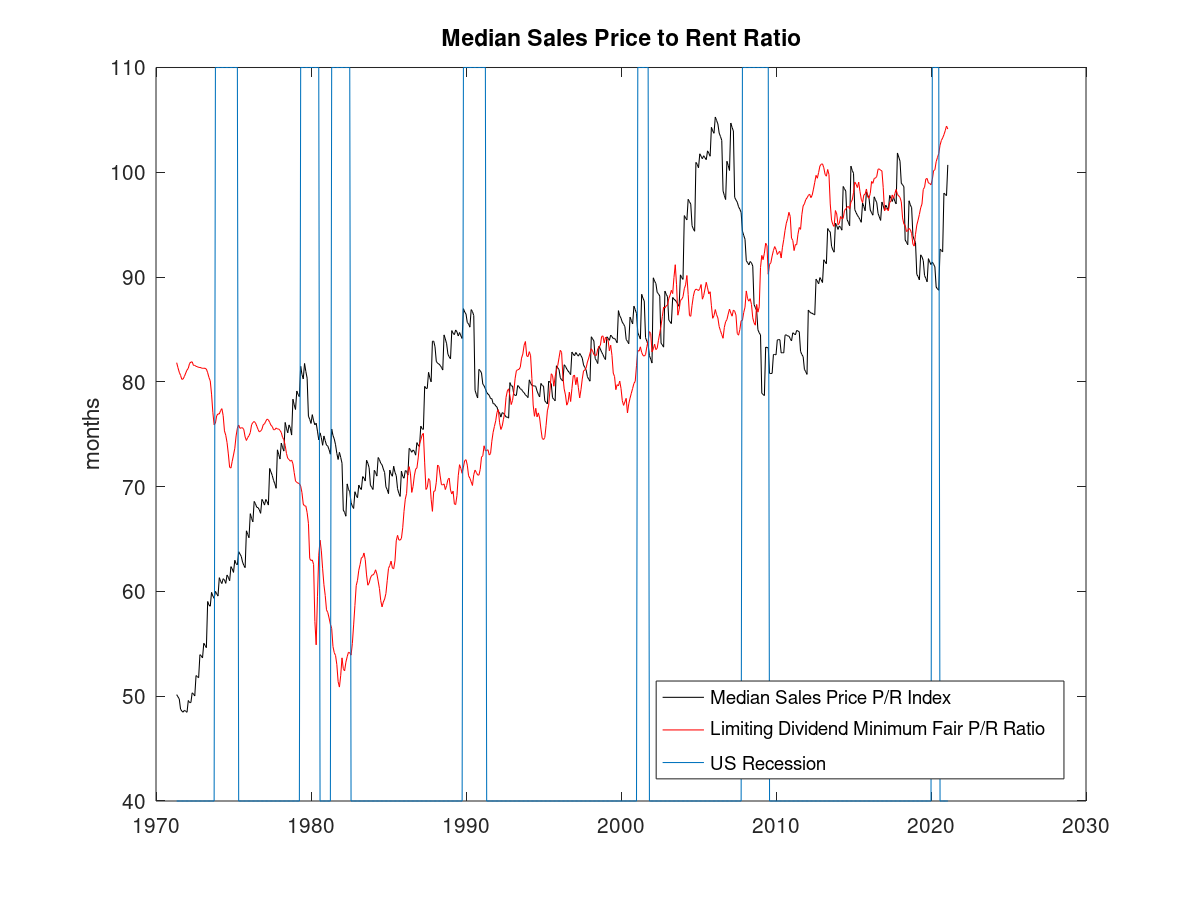
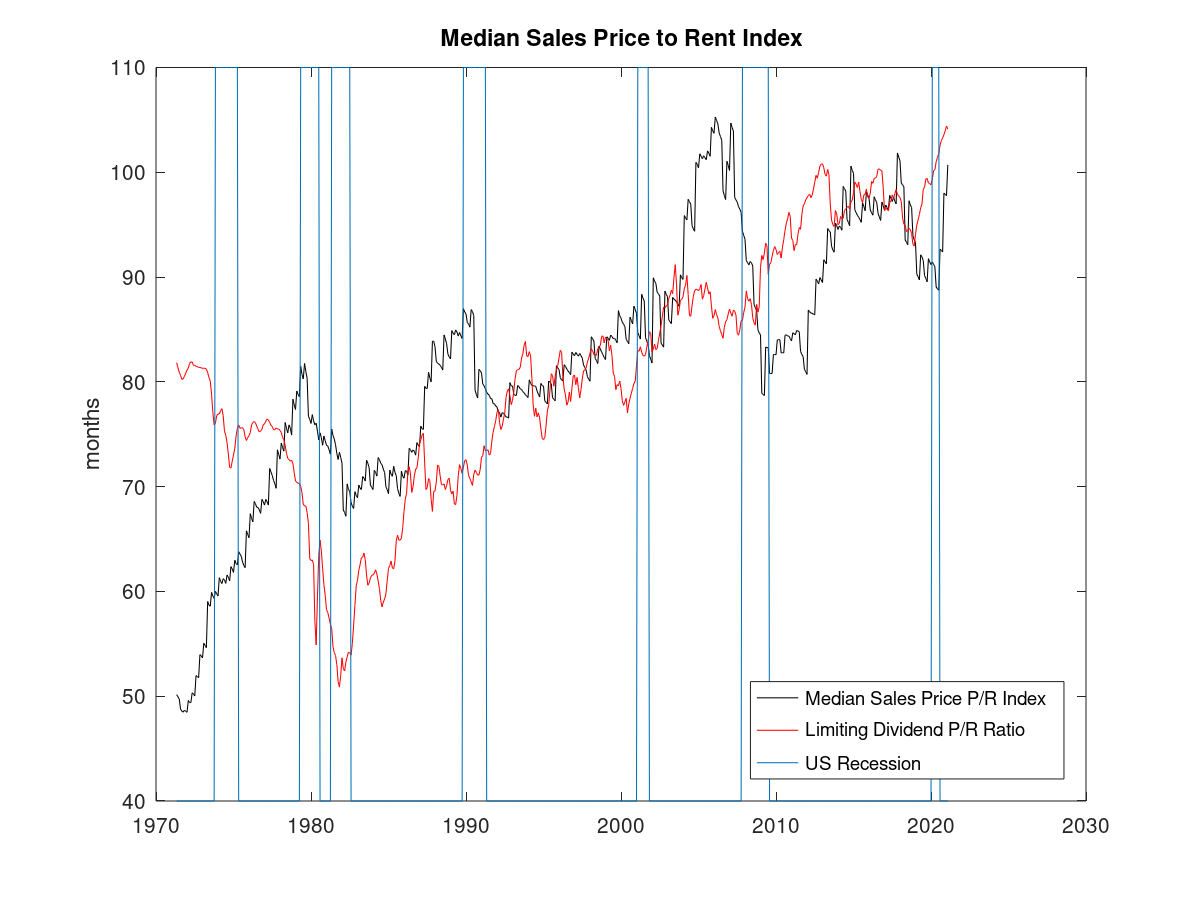
Inflation Dilation

Changed region(s): [[0.555, 0.7467, 0.8633, 0.8711], [0.37, 0.0311, 0.6783, 0.0622]]

diff --git a/Real-Estate/inflation-dilation.html b/Real-Estate/inflation-dilation.html
@@ -1,0 +1,164 @@
+<!DOCTYPE html>
+<html lang="en">
+<head>
+	<meta charset="utf-8"/>
+	<title>Inflation Dilation</title>
+	<link rel="stylesheet" type="text/css" href="../Branding/home.css">
+	<script data-ad-client="ca-pub-2647559998401134" async src="https://pagead2.googlesyndication.com/pagead/js/adsbygoogle.js"></script>
+</head>
+
+<body>
+<div id="horizontal-div-containing-entire-page">
+<header>
+  <script async src="https://pagead2.googlesyndication.com/pagead/js/adsbygoogle.js?client=ca-pub-2647559998401134"
+	     crossorigin="anonymous"></script>
+	<!-- header-ad -->
+	<ins class="adsbygoogle"
+	     style="display:block"
+	     data-ad-client="ca-pub-2647559998401134"
+	     data-ad-slot="2556218560"
+	     data-ad-format="auto"
+	     data-full-width-responsive="true"></ins>
+	<script>
+	     (adsbygoogle = window.adsbygoogle || []).push({});
+	</script>
+</header>
+<aside>
+<a href="../index.html"><img src="#" alt="snth.us"></a>
+</aside>
+<div id="vertical-div-containing-article-and-navigation">
+<hr/>
+<article>
+<h1>Inflation Dilation</h1>
+<h2>Aug. 2021</h2>
+<p> The <a href="mortgage-calculator.html">mortgage calculator</a>
+  proved that mortgage principal and monthly payments are
+  related by a constant, fixed by monthly interest rate
+  and loan period.
+  The next <a href="index.html">three articles</a> used this
+  to build a relationship between mortgage sizes and rent, but
+  did not account for a major difference between borrowing and
+  renting&mdash;building up equity in a home.
+	The next goal is to compare a
+	<a href="#">home price-to-earnings ratio</a>
+	to other investments.
+</p>
+<p> An optimum equivalent dividend yield can be computed
+	(unfortunately not analytically solved) based on mortgage
+	and inflation rates, and MATLAB/Octave functions for this are included
+	below. The most interesting results are that this dividend yield
+	comes from owning the loan liability, not the actual down payment
+	invested, and also the effects of inflation on this yield through
+	price appreciation and refinancing costs.
+</p>
+<img src="liability-dividend-yield.png" width="75%">
+<p> For example, refinancing a 2%, 30-year, fixed rate mortgage at
+	the optimum time could earn a 0.75% annualized return if
+	refinancing cost one year's worth of mortgage payments and home
+	prices appreciated at a 1-2% rate.
+	Further, if the mortgage was 4x the intial down payment,
+	then the annualized capital gain could be 4&times;0.75% (3%).
+</p>
+<h2>How These Results were Derived</h2>
+<p> The equity gained each month is due to the amount
+  of principal repayed (i.e. difference between principal remaining
+  between month m and m+1) and due to exposure to
+  inflation/deflation of the remaining liability.
+</p>
+<img src="single-month-equity.png">
+<p> Summing these monthly gains over 'n' months shows how inflation
+  affects the profitability of selling your home or the safety net you
+  build up if you ever need to refinance (less a transaction cost 'C').
+</p>
+<img src="equity-buildup-final.png">
+<p> The proof is appended below, where 'r' and 'inf' are monthly
+  interest and inflation multiplication factors, 'p' is monthly
+  payment, and 'N' is mortgage period 360 months.
+	The effect of refinancing costs (y-intercept) and inflation
+	rate on the number of months before refinancing can result
+	in a profit are shown:
+</p>
+<img src="nominal-equity-gains.png" width="75%">
+
+<h2>Equity Buildup Proof</h2>
+<p> The equity gained each month is due to the amount
+  of principal repayed (i.e. difference between principal remaining
+  between month m and m+1) and due to exposure to
+  inflation/deflation of the remaining liability.
+</p>
+<img src="single-month-equity.png">
+<p> Equity buildup uses the same mortgage equations proved for the
+  <a href="mortgage-calculator.html">mortgage calculator</a>,
+  except the loan period 'N' is replaced by a number of 'm' months
+  owned. 'P0' is initial loan principal, 'p' the monthly payment,
+  and 'r' the monthly interest multiplication factor.
+</p>
+<img src="mortgage-decay.png">
+<p> The sum of nominal gains over n months '&Delta;En':
+</p>
+<img src="equity-buildup-proof.png">
+<p> Finally, if the mortgage is refinanced or sold before its
+	term ends, there is a transaction cost 'C' which consumes some
+	of the equity gained. This addition limits the model to working
+	best when the inflation is &leq; mortgage rates.
+</p>
+<img src="equity-buildup-final.png">
+<h2>Octave Optimum-Point Function</h2>
+<pre>
+function months = months_eq_equity_buildup(apr, ipr, coverp, N, n)
+  inf = realpow(1+ipr/100, 1/12);
+  r = realpow(1+apr/100, 1/12);
+  c1 = (r-inf)/(1-1/r);
+  c2 = (r^(-N))/(1-1/r);
+  months = n - c1*(n-c2*(r^n - 1)) - coverp*inf^n;
+endfunction
+
+function buildup = buildup_array(apr, ipr, coverp, N)
+  m = 0;
+  do
+    m = m + 1;
+    buildup(m) = months_eq_equity_buildup(apr, ipr, coverp, N, m);
+  until(m == N)
+endfunction
+
+function opt_point = optimum_point(apr, ipr, coverp, N)
+  derivative_zero = buildup_array(apr, ipr, coverp, N);
+  r = (1 + apr/100)^(1/12);
+  inf = (1 + ipr/100)^(1/12);
+  derivative_zero = derivative_zero .- 2*(1+(r - inf)/(1 - 1/r));
+  n = 1 + lookup(derivative_zero, 0);
+  buildup = months_eq_equity_buildup(apr, ipr, coverp, N, n);
+  c = (1 - r^(-N))/(1-1/r);
+  annual_yield_multiplier = (1+buildup/c)^(12/n);
+  annual_div = 100*(annual_yield_multiplier - 1);
+  opt_point = [n, buildup, annual_div];
+endfunction
+</pre>
+
+
+<footer>
+<hr>
+<a rel="license" href="http://creativecommons.org/licenses/by/4.0/">
+	<img alt="Creative Commons License" style="border-width:0"
+	src="https://i.creativecommons.org/l/by/4.0/80x15.png"></a>
+  Ben Lorenzetti<br>
+  This work is licensed under a
+<a rel="license" href="http://creativecommons.org/licenses/by/4.0/">Creative
+	Commons Attribution 4.0 International License
+</a>.
+</footer>
+</article>
+<nav>
+  <ul>
+    <li><a href="index.html">Back</a></li>
+    <li><a href="../Archive/index.html">Archive</a></li>
+		<li><a href="../Privacy-Policy/index.html">Privacy</a></li>
+  </ul>
+  <div style="clear: both; min-width: 100%; margin: 0px; padding: 0px;"></div>
+</nav>
+</div><!--article+nav wrapper-->
+<footer>
+</footer>
+</div><!--horizontal centering div-->
+</body>
+</html>

diff --git a/Real-Estate/a-house-of-cards.html b/Real-Estate/a-house-of-cards.html
@@ -30,7 +30,7 @@
 <hr/>
 <article>
 <h1>A Housing Bubble or a House of Cards?</h1>
-<h2>Aug. 1, 2021</h2>
+<h2>Aug. 8, 2021</h2>
 <p> The price to rent ratio (P/R) is a well known litmus test for real
   estate deals.
   However, you can stack the deck in your favor by knowing how current
@@ -49,17 +49,19 @@
 </p>
 <p> The hypothesis of the
   <a href="limiting-dividend.html">limiting dividend model</a>
-  is that a lower bound on the price to rent ratio (P/R) is set by
-  combination of fiat money policy in parallel with a real-economy
+  is that a P/R ratio upper bound is set by
+  combination of fiat monetary policy in parallel with a real-economy
   resistance to becoming rundown.
-  The Federal Reserve provides plenty of public data to test it out,
-  and the result is plotted in red, with US recessions shown in blue.
-	The data starts the year Nixon suspended the gold standard.
+  The Federal Reserve provides enough public data for a quick test,
+  and the result is plotted below with a P/R index (black) normalized
+	to the model (red) in 2016. To improve credibility, US recessions
+	are shown and the data starts the year Nixon suspended the gold
+	standard.
 </p>
 
 <img src="resistance-ratio.png" width="100%">
 <h2>Should I Buy or Rent?</h2>
-<p> The model provides a lower bound of where fair market
+<p> The model provides an upper bound of where fair market
   property prices are
   headed based on federal policy. With the real price ratio (black)
   normalized to the model (red) in 2016, it looks like property
@@ -149,7 +151,7 @@ Rth = (Rreal * Rmort)./(Rmort + Rreal);
 scale = Vmed(scale_refpoint)/(Rth(scale_refpoint)*Irent(scale_refpoint));
 
 plot(yr, Vmed./(scale*Irent), 'k', yr, Rth, 'r', yr, 70*Recess+40);
-title("Median Sales Price to Rent Ratio");
+title("Median Sales Price to Rent Index");
 legend("Median Sales Price P/R Index", "Limiting Dividend Minimum Fair P/R Ratio", "US Recession", "location","southeast");
 ylabel("months");
 </pre>

diff --git a/Real-Estate/limiting-dividend.html b/Real-Estate/limiting-dividend.html
@@ -18,6 +18,31 @@
 <article>
 <h1>Limiting Dividend Model</h1>
 <h2>Aug., 2021</h2>
+<p> The <a href="mortgage-calculator.html">mortgage calculator</a>
+	produces a surprising result: every additional dollar of down
+	payment yields a fixed annual dividend rate set by the
+	mortgage terms. If you assume landlords always have
+	some mortgage debt, and if the price to earnings ratio (P/E) of
+	homes for sale rises above this fiat threshold,
+	they can make more money by paying down existing debt rather
+	than expanding or by selling some properties to pay off others,
+	thus helping correct prices downward.
+</p>
+<p> If the E/P of the mortgage principal is constant, what other
+	landlord expenses are proportional to rental propery value?
+	Property taxes, income taxes, and to some extent utilities,
+	insurance, etc. Thus these expenses can be
+	<a href="normal-expenses.html">normalized into
+	constant price to expense (P/E') ratios</a> with an accurate
+	appraisal of property value and expenses.
+</p>
+<p> The constant P/E of the mortgage and P/E's of other
+	expenses can be represented schematically by resistors in parallel
+	with an independent source, which is either the purchase
+	price (like Voltage) or monthly rent income (like Current),
+	such that
+	<span style="white-space:nowrap">Property Value = (R1||R2||R3...) &times; Monthly Rent</span>
+</p>
 <img src="value-model.png" width="75%">
 
 <div>

diff --git a/Real-Estate/index.html b/Real-Estate/index.html
@@ -33,6 +33,7 @@
 	<li><a href="limiting-dividend.html">Limiting Dividend Model</a></li>
 	<li><a href="normal-expenses.html">Expense Normalization</a></li>
 	<li><a href="a-house-of-cards.html">A House of Cards</a></li>
+	<li><a href="inflation-dilation.html">Inflation Dilation</a></li>
 </ol>
 
 <footer>

diff --git a/Real-Estate/inflation-dilation.m b/Real-Estate/inflation-dilation.m
@@ -1,0 +1,72 @@
+clear;
+clc;
+function months = months_eq_equity_buildup(apr, ipr, coverp, N, n)
+  inf = realpow(1+ipr/100, 1/12);
+  r = realpow(1+apr/100, 1/12);
+  c1 = (inf-r)/(1-1/r);
+  c2 = (r^(-N))/(1-1/r);
+  months = n + c1*(n-c2*(r^n - 1)) - coverp*inf^n;
+endfunction
+
+function buildup = buildup_array(apr, ipr, coverp, N) 
+  m = 0;
+  do
+    m = m + 1;
+    buildup(m) = months_eq_equity_buildup(apr, ipr, coverp, N, m);
+  until(m == N)
+endfunction
+
+function opt_point = optimum_point(apr, ipr, coverp, N)
+  derivative_zero = buildup_array(apr, ipr, coverp, N);
+  r = (1 + apr/100)^(1/12);
+  inf = (1 + ipr/100)^(1/12);
+  derivative_zero = derivative_zero .- 2*(1+(r - inf)/(1 - 1/r));
+  n = 1 + lookup(derivative_zero, 0);
+  buildup = months_eq_equity_buildup(apr, ipr, coverp, N, n);
+  c = (1 - r^(-N))/(1-1/r);
+  annual_yield_multiplier = (1+buildup/c)^(12/n);
+  annual_div = 100*(annual_yield_multiplier - 1);
+  opt_point = [n, buildup, annual_div];
+endfunction
+
+function optimum = optimum_buildup(apr, ipr, N)
+  r = (1 + apr/100)^(1/12);
+  inf = (1 + ipr/100)^(1/12);
+  optimum = 2*(1+(r - inf)/(1 - 1/r)) + zeros(1,N);
+endfunction
+
+n = 1:360;
+plus2 = buildup_array(2, 2, 12, 360);
+plus2op = optimum_buildup(2, 2, 360);
+plus2pt = optimum_point(2, 2, 12, 360);
+
+zero = buildup_array(2, 0, 12, 360);
+zeroop = optimum_buildup(2, 0, 360);
+zeropt = optimum_point(2, 0, 12, 360);
+
+minus2 = buildup_array(2, -2, 12, 360);
+minus2op = optimum_buildup(2, -2, 360);
+minus2pt = optimum_point(2, -2, 12, 360);
+
+plot(n, plus2, n, zero, n, minus2, n, plus2op, n, zeroop, n, minus2op, plus2pt(1), plus2pt(2), "xk", zeropt(1), zeropt(2), "xk", minus2pt(1), minus2pt(2), "xk");
+title("Nominal Home Equity Gains for 2%, 30-year Mortgage");
+legend("2% Inflation, 12-month Refin. Cost", "0% Inflation, 12-month Refin. Cost", "-2% Inflation, 12-month Refin. Cost", "location","northwest");
+ylabel("Equity Gains / Monthly Payment (months)");
+xlabel("months");
+axis([0,360,-12,360]);
+
+%{
+for i = 1:800
+  inf(i) = i/100 -4;
+  div6(i) = optimum_point(2, inf(i), 6, 360)(3);
+  div12(i) = optimum_point(2, inf(i), 12, 360)(3);
+endfor
+interest = zeros(1,800);
+interest(600) = 1.75;
+plot(inf, div6, inf, div12, inf, interest, 'k');
+title("Liability Dividend Yield for 2%, 30-year Mortgage");
+ylabel("Annual Equivalent Yield (%)");
+xlabel("Home Price Inflation (%)");
+legend("6-month mort. payment equivalent Refinancing Cost", "12-month mort. payment equivalent Refinancing Cost", "location","northwest");
+axis([-4,4,0,1.75]);
+%}

diff --git a/Real-Estate/prratio.m b/Real-Estate/prratio.m
@@ -40,6 +40,6 @@ Rth = (Rreal * Rmort)./(Rmort + Rreal);
 scale = Vmed(scale_refpoint)/(Rth(scale_refpoint)*Irent(scale_refpoint));
 
 plot(yr, Vmed./(scale*Irent), 'k', yr, Rth, 'r', yr, 70*Recess+40);
-title("Median Sales Price to Rent Ratio");
-legend("Median Sales Price P/R Index", "Limiting Dividend Minimum Fair P/R Ratio", "US Recession", "location","southeast");
+title("Median Sales Price to Rent Index");
+legend("Median Sales Price P/R Index", "Limiting Dividend P/R Ratio", "US Recession", "location","southeast");
 ylabel("months");
